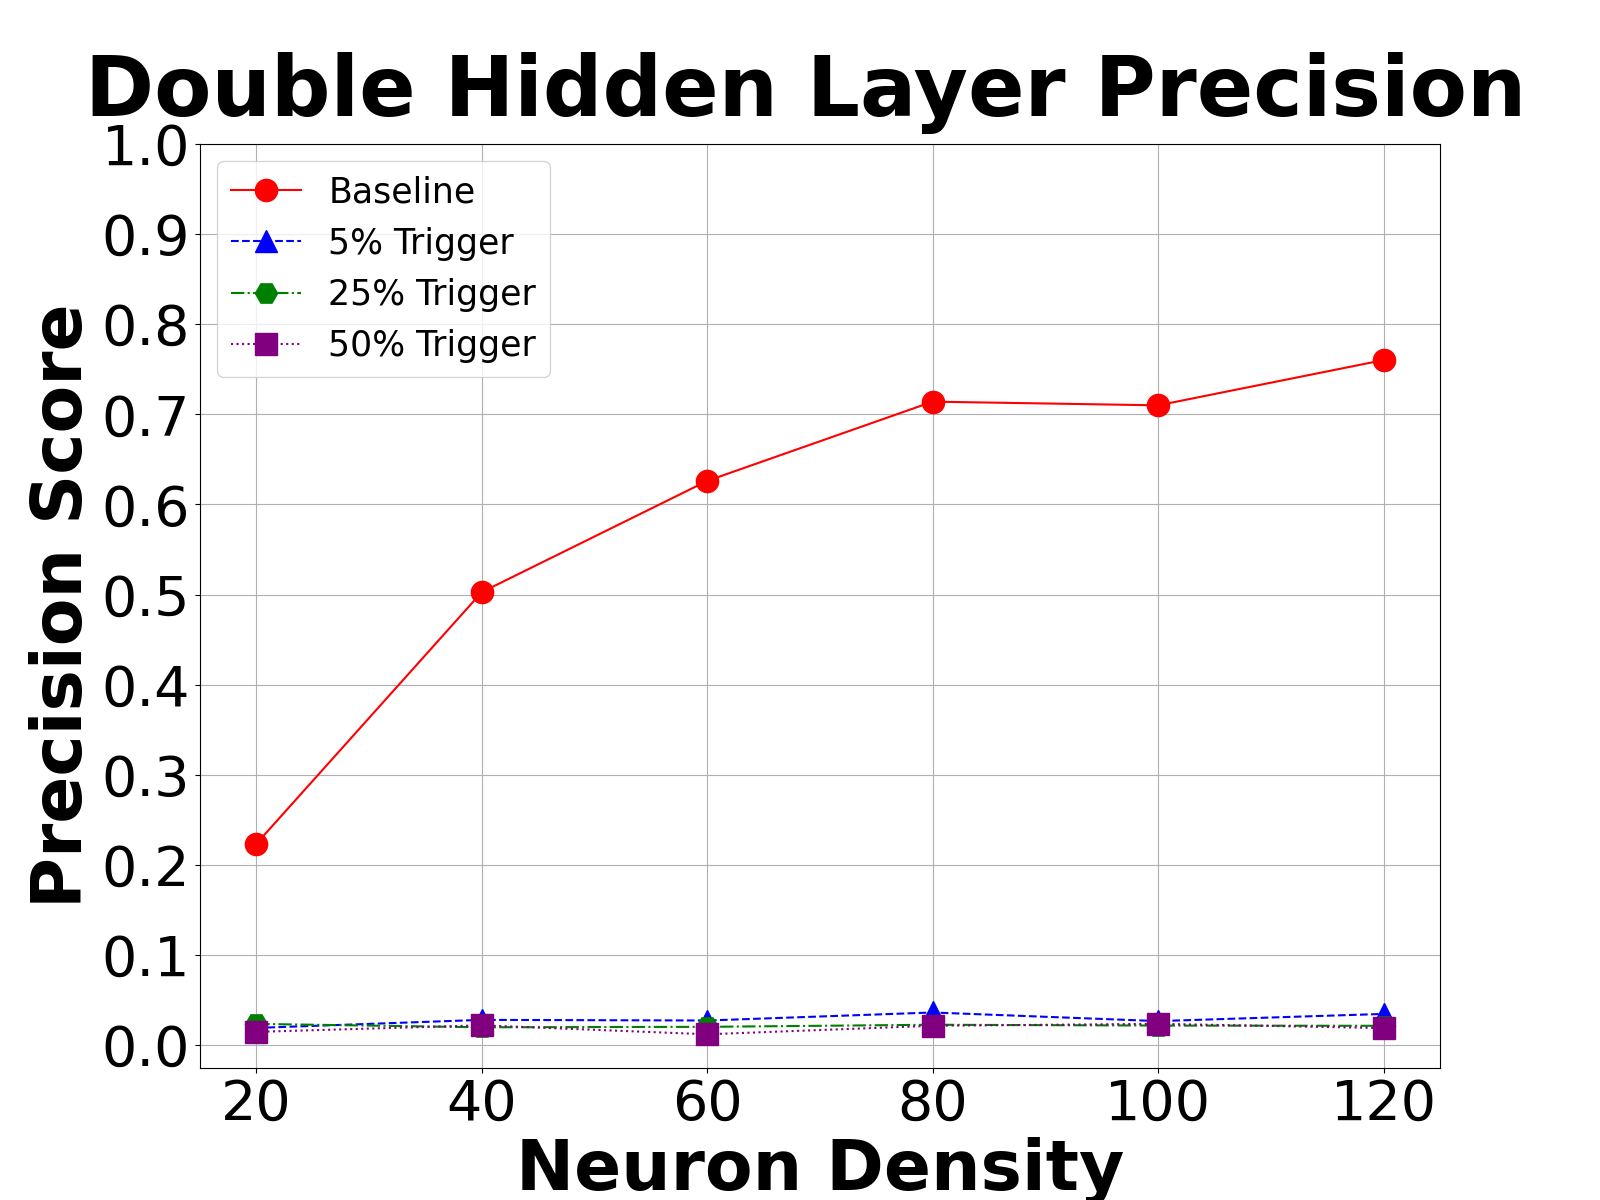
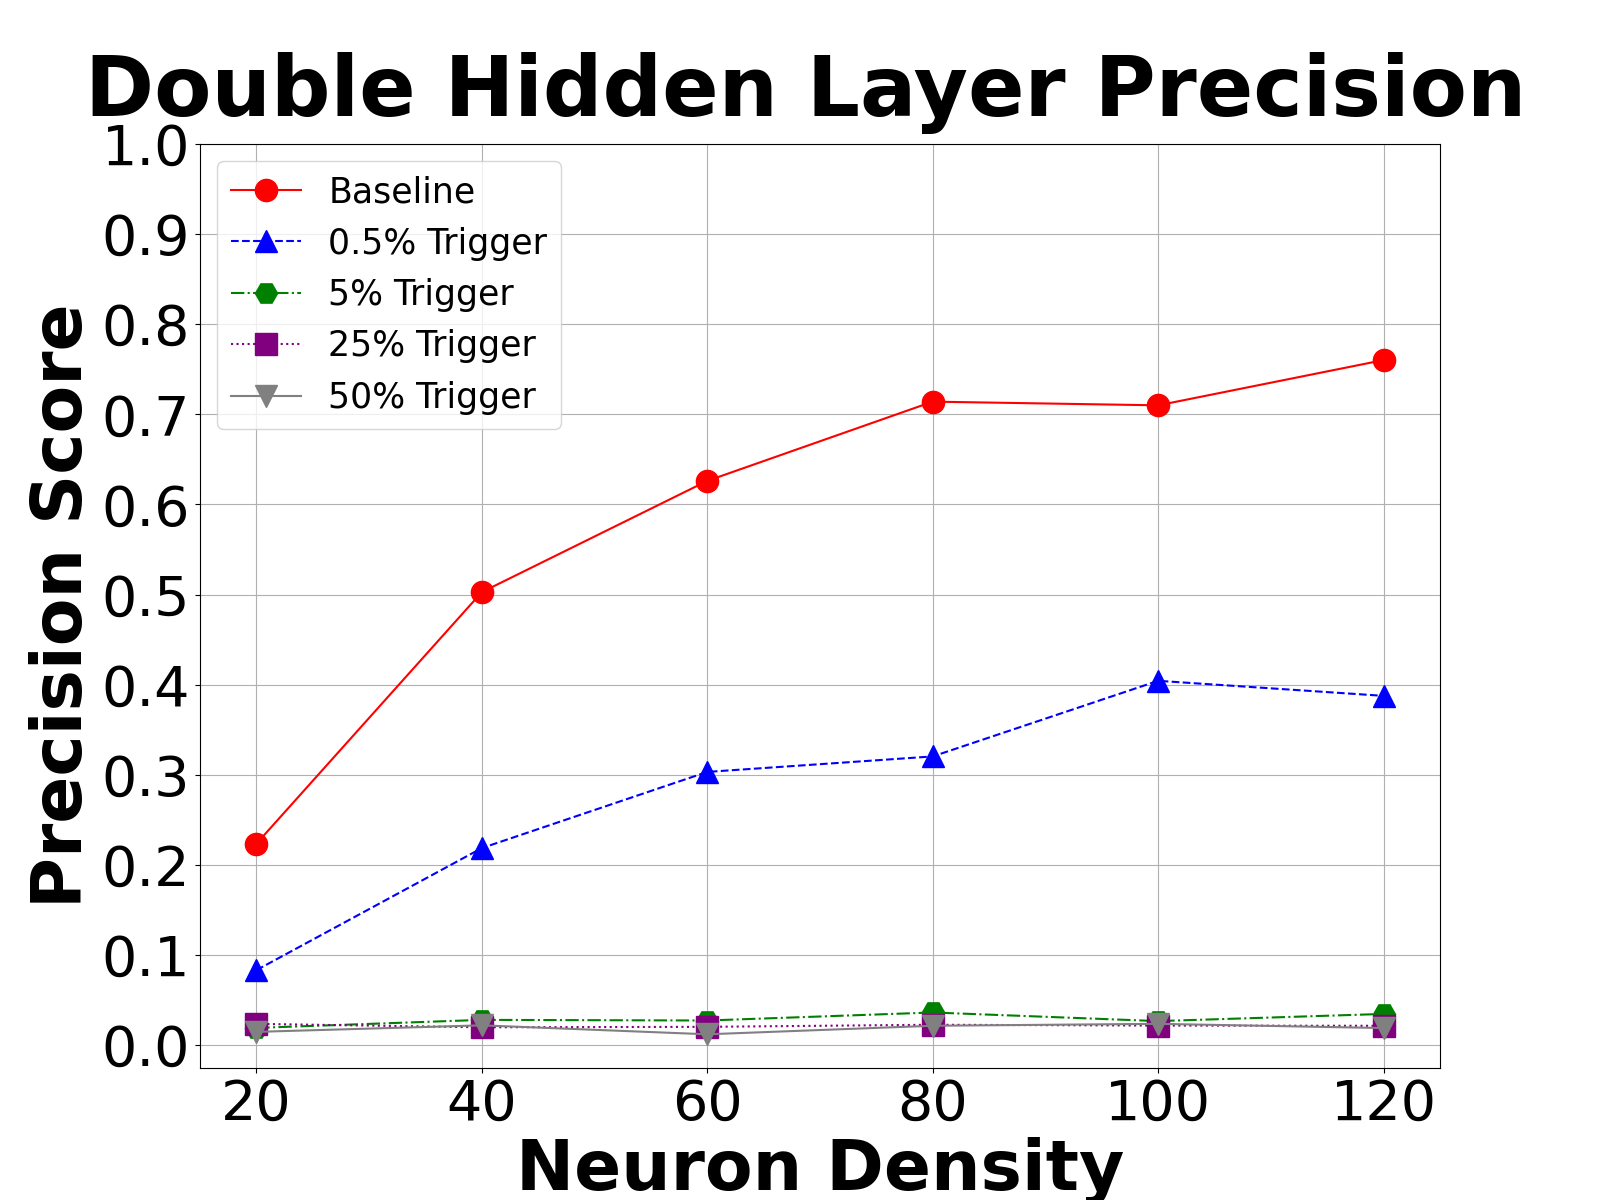
31 May 2020 (1)
- Updates to MLP paper

diff --git a/Number_Classifier_v5/NUMCLFv5_Visiualize/Visualize_v5_MAIN.py b/Number_Classifier_v5/NUMCLFv5_Visiualize/Visualize_v5_MAIN.py
@@ -19,7 +19,7 @@ if __name__ == '__main__':
     int_path = 'C:/Users/Landon/Documents/GitHub/Convolutional-Neural-Networks/Number_Classifier_v5/NUMCLFv5_Visualize'
     out_path = 'C:/Users/Landon/Documents/GitHub/Convolutional-Neural-Networks/Presentations/OTSACS'
     data_path = 'C:/Users/Landon/Documents/GitHub/Convolutional-Neural-Networks/Number_Classifier_v5/Raw_Data'
-    CSV_FILES = ['Baseline_v1.csv','Mute_MSB_v3.csv','Mute_MSB_v2.csv','Mute_MSB_v1.csv']
+    CSV_FILES = ['Baseline_v1.csv','Mute_MSB_v4.csv','Mute_MSB_v3.csv','Mute_MSB_v2.csv','Mute_MSB_v1.csv']
 
     files_objs = []
     for file in CSV_FILES:
@@ -29,7 +29,7 @@ if __name__ == '__main__':
 
 
     os.chdir(out_path)
-    labs=['Baseline','5% Trigger','25% Trigger','50% Trigger']
+    labs=['Baseline','0.5% Trigger','5% Trigger','25% Trigger','50% Trigger']
 
     # Loss Function values
     Vis_utils.Plot_Metric(files_objs,'single_layer',metric='Avg_Loss',labs=labs,

diff --git a/Number_Classifier_v5/NUMCLFv5_Visiualize/Visualize_v5_Utilities.py b/Number_Classifier_v5/NUMCLFv5_Visiualize/Visualize_v5_Utilities.py
@@ -88,6 +88,7 @@ def Plot_Metric (objs=[],attrbs='',metric='',ylab='',labs=[],title='',save=False
     plt.plot(neurons,data[1],color='blue',linestyle='--',marker='^',ms=16,label=labs[1])
     plt.plot(neurons,data[2],color='green',linestyle='-.',marker='H',ms=16,label=labs[2])
     plt.plot(neurons,data[3],color='purple',linestyle=':',marker='s',ms=16,label=labs[3])
+    plt.plot(neurons,data[4],color='gray',linestyle='-',marker='v',ms=16,label=labs[4])
 
     if metric == 'Avg_Loss':
            plt.yscale('log')
